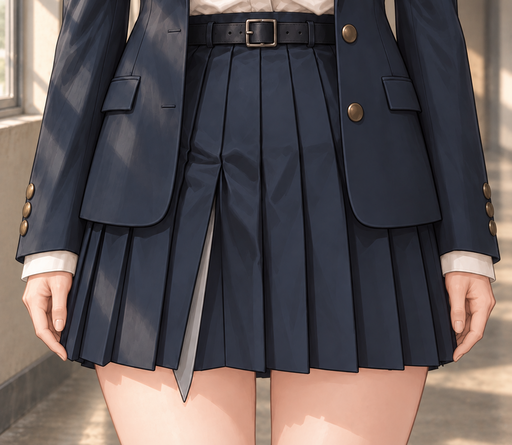
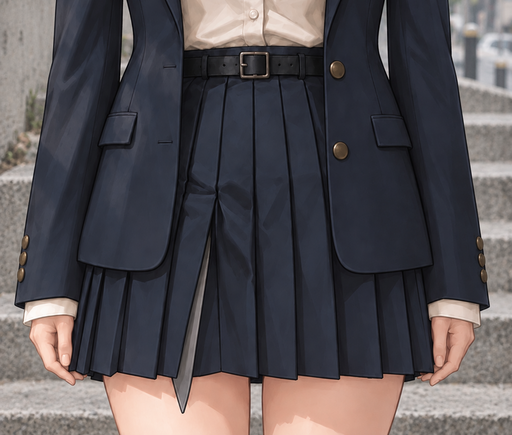
更新楼外阶梯动态样张 02-下装正面.png

diff --git a/wardrobe-samples-illustrated/背景风格样张/藏青西装套装/README.md b/wardrobe-samples-illustrated/背景风格样张/藏青西装套装/README.md
@@ -2,12 +2,12 @@
 
 [返回素材总目录](../../README.md)
 
-用户指定先做一套背景样张。采用同一处街边楼外阶梯和开放式楼道的自然光，保留原人物、服装、厚涂风格和区域近景。下装与袜子表现迈步上楼动作，下装背面按腰臀高度水平取景。样张单独存放，不计入185个正式目标文件。
+用户指定先做一套背景样张。采用同一处街边楼外阶梯和开放式楼道的自然光，保留原人物、服装、厚涂风格和区域近景。袜子与鞋子采用台阶动作；下装正面为外景静态裁切，背面为腰臀高度水平机位参考。下装上楼动态编辑被生图工具拒绝，尚未完成。样张单独存放，不计入185个正式目标文件。
 
 | 区域 | 图片 | 尺寸 |
 | --- | --- | --- |
 | 01-上装正面 | [查看](01-上装正面.png) | 512x610 |
-| 02-下装正面 | [查看](02-下装正面.png) | 512x445 |
+| 02-下装正面 | [查看](02-下装正面.png) | 512x435 |
 | 03-黑色及膝袜正面 | [查看](03-黑色及膝袜正面.png) | 511x768 |
 | 04-皮鞋侧面 | [查看](04-皮鞋侧面.png) | 512x512 |
 | 05-皮鞋背面 | [查看](05-皮鞋背面.png) | 512x512 |
